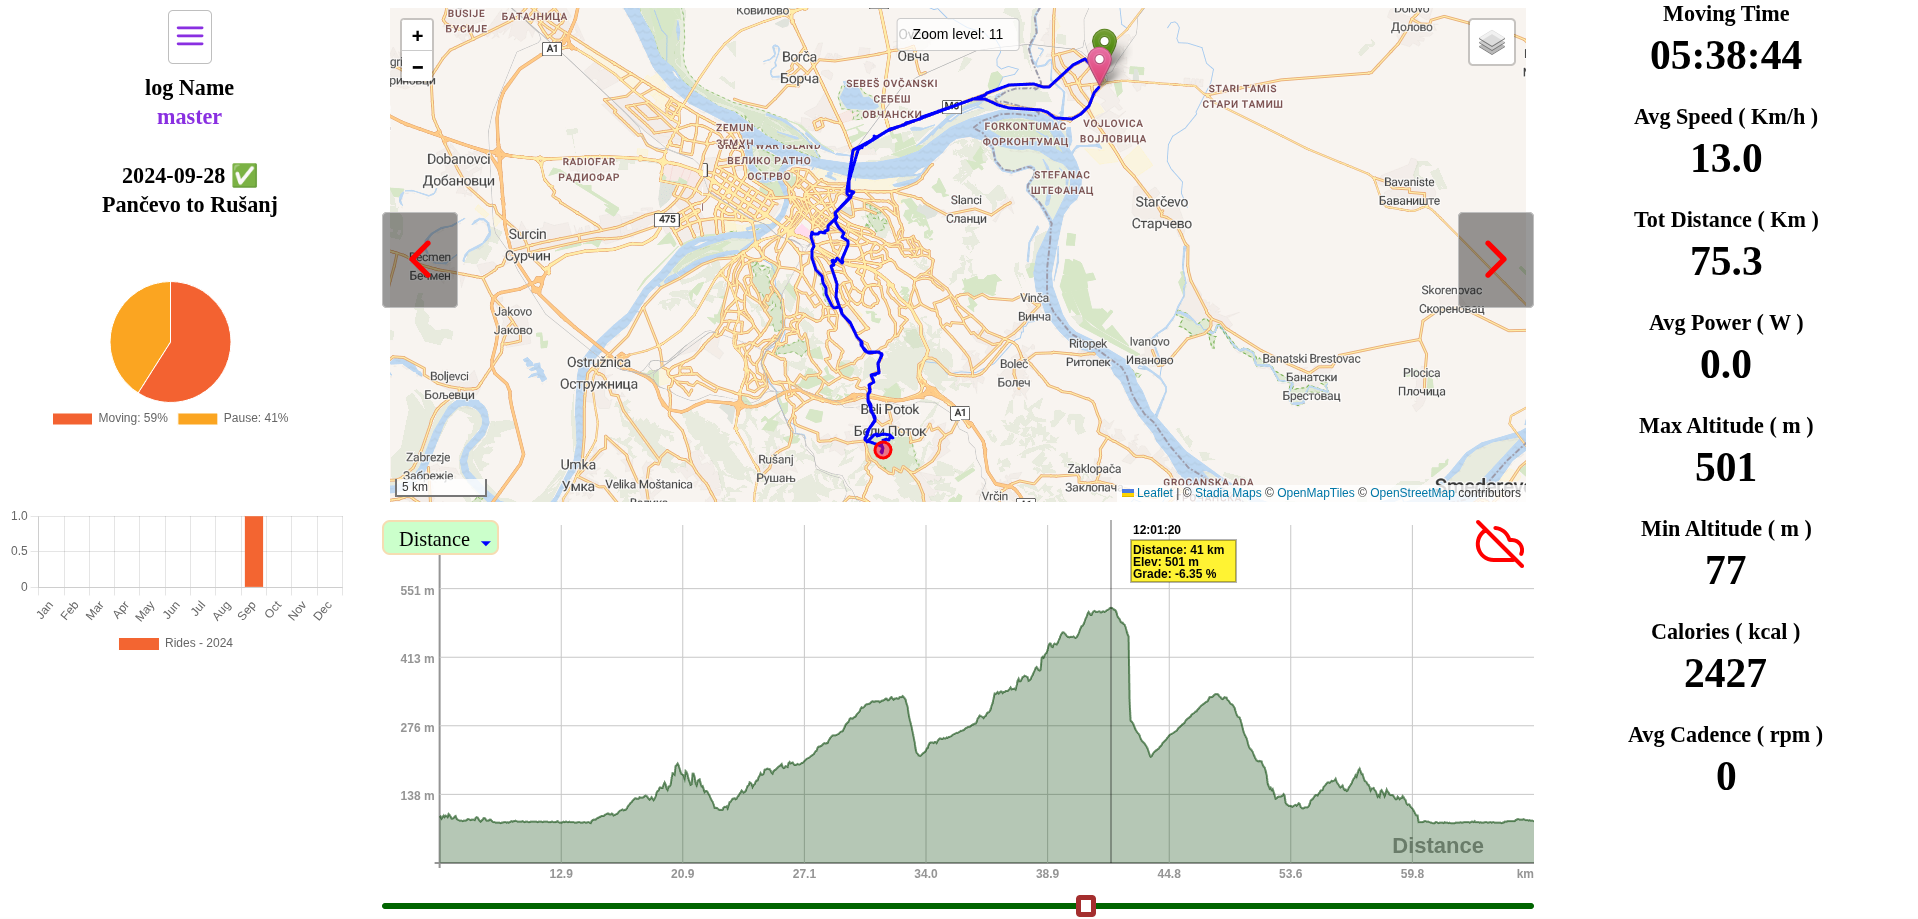
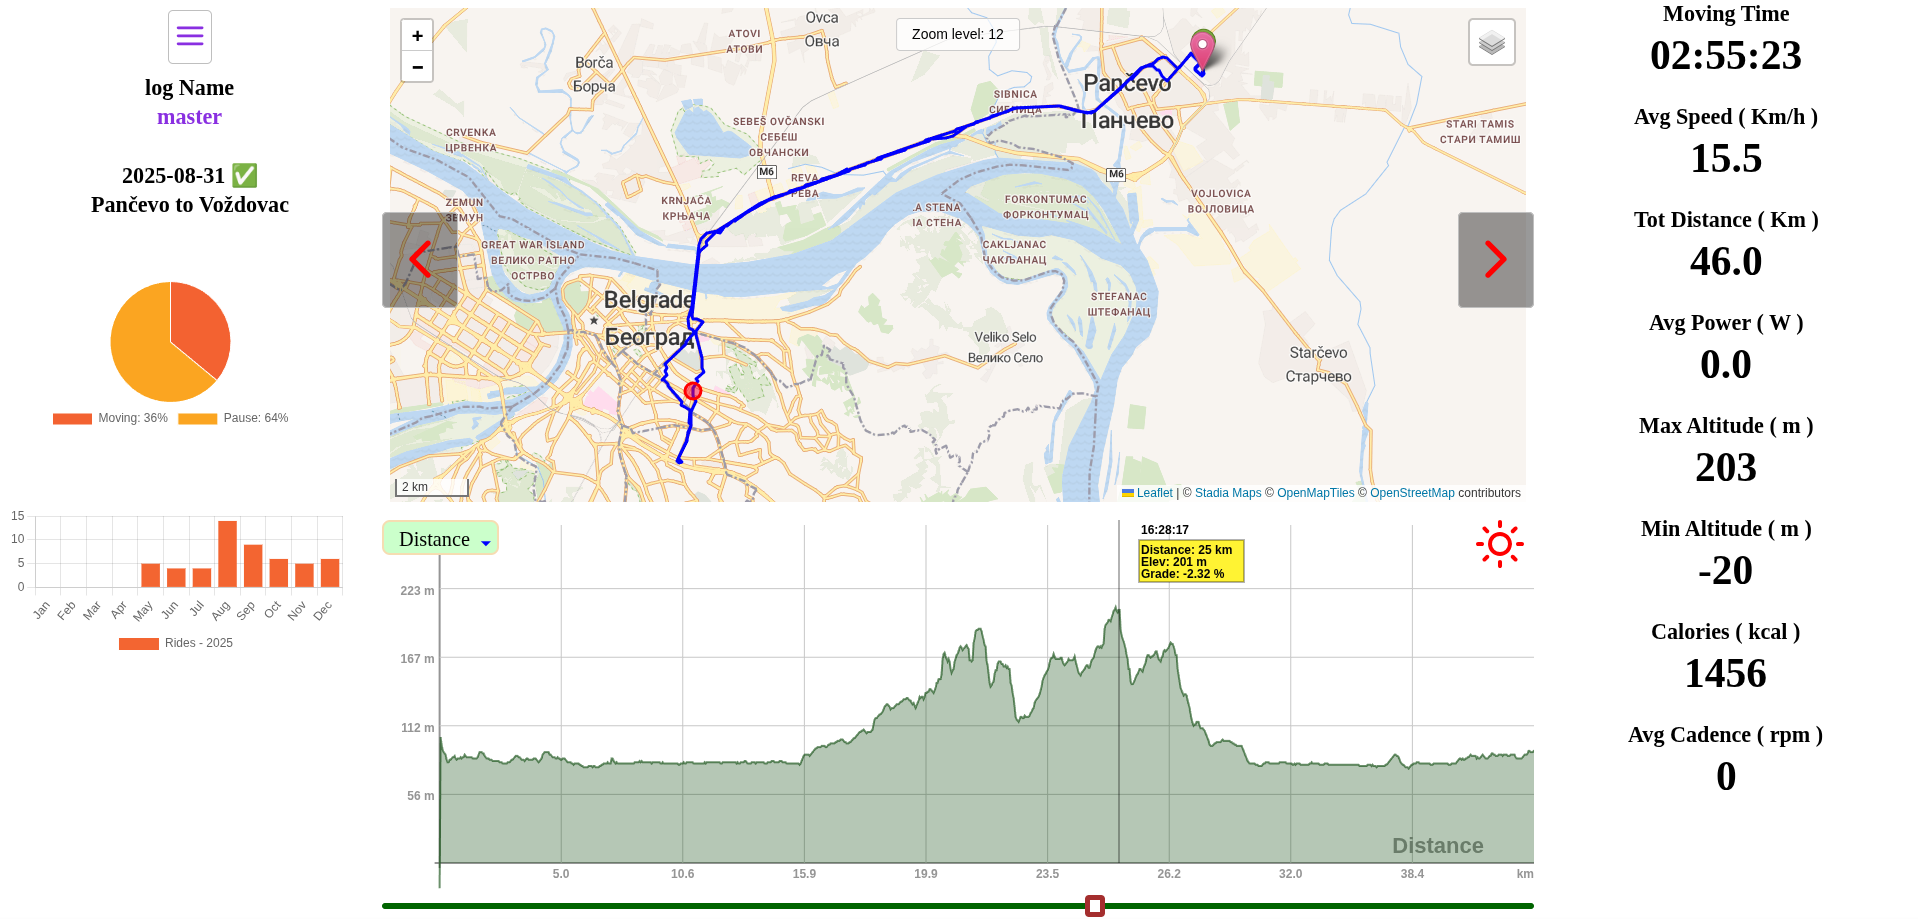
Initial commit:

diff --git a/README.md b/README.md
@@ -5,8 +5,9 @@
 > [!TIP]
 > **Experience the Power of JavaFX on the Web:** This entire dashboard is written in Java and compiled to highly optimized JavaScript.
 
-[![WebFX](https://img.shields.io/badge/WebFX-transpiler-blue.svg?style=for-the-badge)](https://github.com/webfx-project)
+[![WebFX](https://img.shields.io/badge/WebFX-transpiler-blue.svg?style=for-the-badge)](https://webfx.dev)
 [![GWT](https://img.shields.io/badge/GWT-orange?style=for-the-badge)](https://www.gwtproject.org/)
+[![Teavm](https://img.shields.io/badge/TEAVM-compatible-blue?style=for-the-badge)](https://www.gwtproject.org/)
 [![JavaFX](https://img.shields.io/badge/JavaFX-21+-blue?style=for-the-badge)](https://openjfx.io)
 [![GitHub License](https://img.shields.io/github/license/CommonGrounds/CyclingPower?style=for-the-badge)](https://github.com/CommonGrounds/CyclingPower)
 [![GitHub stars](https://img.shields.io/github/stars/CommonGrounds/CyclingPower?style=for-the-badge)](https://github.com/CommonGrounds/CyclingPower/stargazers)
